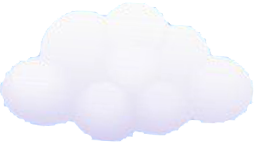
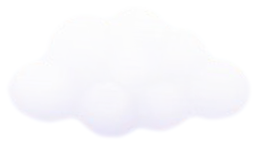
Refresh cloud art, layout tweaks, and mobile UI polish.
Update cloud PNGs and positions, black page backdrop, larger mobile faces, info panel offset, and overlay timing.

diff --git a/css/game.css b/css/game.css
@@ -9,7 +9,7 @@
 html,
 body {
   height: 100%;
-  background: radial-gradient(ellipse at 50% 30%, #2a2a2e 0%, #0a0a0c 55%, #000 100%);
+  background: #000;
   overflow: hidden;
   font-family: system-ui, -apple-system, Segoe UI, sans-serif;
   -webkit-tap-highlight-color: transparent;
@@ -329,7 +329,7 @@ body.force-landscape .prize-panel-wrap {
     margin: 0;
     overflow: hidden;
     overscroll-behavior: none;
-    background: #0a1020;
+    background: #000;
   }
 
   #app,
@@ -470,6 +470,7 @@ html:not(.is-touch) .iphone .stage {
 
 html.is-touch.game-landscape .stage {
   --info-panel-scale: calc(0.9555 * 0.85);
+  --info-panel-shift-x: 10px;
   --top-left-nudge-x: -10px;
   /* Rope Y: top of stage + lift info panel slightly */
   --info-rope-top: calc(
@@ -479,6 +480,7 @@ html.is-touch.game-landscape .stage {
 
 html:not(.is-touch) .iphone .stage {
   --info-panel-scale: 0.9555;
+  --info-panel-shift-x: 10px;
   --top-left-nudge-x: 0px;
   --info-rope-top: calc(-1 * max(var(--ui-top), 10px));
   --prize-panel-items-drop: -10px;
@@ -493,7 +495,7 @@ html:not(.is-touch) .iphone .top-left-controls {
 html.is-touch.game-landscape .info-panel-wrap,
 html:not(.is-touch) .iphone .info-panel-wrap {
   position: absolute;
-  left: var(--info-rope-x, 55px);
+  left: calc(var(--info-rope-x, 55px) + var(--info-panel-shift-x, 0px));
   top: var(--info-rope-top, -8px);
   margin-left: 0;
   margin-top: 0;
@@ -699,9 +701,9 @@ html.is-touch.game-landscape #field .slot[data-index="3"] .slot-inner {
   translate: 0 -8px;
 }
 
-/* Touch landscape: reward character faces −15% */
+/* Touch landscape: reward character face scale (all `.reward-* img.done`) */
 html.is-touch.game-landscape .stage {
-  --character-face-mul: 0.85;
+  --character-face-mul: 1;
   --character-reward-bottom: 10px;
   --petard-row-drop: 12px;
   --petard-lower-row-lift: 20px;
@@ -997,7 +999,7 @@ html.is-touch.game-landscape .info-swing img {
   --ui-top: 12px;
   --info-panel-scale: 0.85;
   --info-meter-gap: 6px;
-  --info-panel-shift-x: -10px;
+  --info-panel-shift-x: 0px;
   --info-panel-shift-y: -24px;
   --top-left-nudge-x: -16px;
   --close-nudge-x: 14px;

diff --git a/web/css/game.css b/web/css/game.css
@@ -9,7 +9,7 @@
 html,
 body {
   height: 100%;
-  background: radial-gradient(ellipse at 50% 30%, #2a2a2e 0%, #0a0a0c 55%, #000 100%);
+  background: #000;
   overflow: hidden;
   font-family: system-ui, -apple-system, Segoe UI, sans-serif;
   -webkit-tap-highlight-color: transparent;
@@ -329,7 +329,7 @@ body.force-landscape .prize-panel-wrap {
     margin: 0;
     overflow: hidden;
     overscroll-behavior: none;
-    background: #0a1020;
+    background: #000;
   }
 
   #app,
@@ -470,6 +470,7 @@ html:not(.is-touch) .iphone .stage {
 
 html.is-touch.game-landscape .stage {
   --info-panel-scale: calc(0.9555 * 0.85);
+  --info-panel-shift-x: 10px;
   --top-left-nudge-x: -10px;
   /* Rope Y: top of stage + lift info panel slightly */
   --info-rope-top: calc(
@@ -479,6 +480,7 @@ html.is-touch.game-landscape .stage {
 
 html:not(.is-touch) .iphone .stage {
   --info-panel-scale: 0.9555;
+  --info-panel-shift-x: 10px;
   --top-left-nudge-x: 0px;
   --info-rope-top: calc(-1 * max(var(--ui-top), 10px));
   --prize-panel-items-drop: -10px;
@@ -493,7 +495,7 @@ html:not(.is-touch) .iphone .top-left-controls {
 html.is-touch.game-landscape .info-panel-wrap,
 html:not(.is-touch) .iphone .info-panel-wrap {
   position: absolute;
-  left: var(--info-rope-x, 55px);
+  left: calc(var(--info-rope-x, 55px) + var(--info-panel-shift-x, 0px));
   top: var(--info-rope-top, -8px);
   margin-left: 0;
   margin-top: 0;
@@ -699,9 +701,9 @@ html.is-touch.game-landscape #field .slot[data-index="3"] .slot-inner {
   translate: 0 -8px;
 }
 
-/* Touch landscape: reward character faces −15% */
+/* Touch landscape: reward character face scale (all `.reward-* img.done`) */
 html.is-touch.game-landscape .stage {
-  --character-face-mul: 0.85;
+  --character-face-mul: 1;
   --character-reward-bottom: 10px;
   --petard-row-drop: 12px;
   --petard-lower-row-lift: 20px;
@@ -997,7 +999,7 @@ html.is-touch.game-landscape .info-swing img {
   --ui-top: 12px;
   --info-panel-scale: 0.85;
   --info-meter-gap: 6px;
-  --info-panel-shift-x: -10px;
+  --info-panel-shift-x: 0px;
   --info-panel-shift-y: -24px;
   --top-left-nudge-x: -16px;
   --close-nudge-x: 14px;

diff --git a/web/js/game.js b/web/js/game.js
@@ -233,17 +233,17 @@
 
   /** Clouds 1–11 */
   const PETARDS = [
-    "Assets/cloud1.png?v=cloudv5",
-    "Assets/cloud2.png?v=cloudv6",
-    "Assets/cloud3.png?v=cloudv5",
-    "Assets/cloud4.png?v=cloudv6",
-    "Assets/cloud5.png?v=cloudv5",
-    "Assets/cloud6.png?v=cloudv5",
-    "Assets/cloud7.png?v=cloudv6",
-    "Assets/cloud8.png?v=cloudv6",
-    "Assets/cloud9.png?v=cloudv5",
-    "Assets/cloud10.png?v=cloudv5",
-    "Assets/cloud11.png?v=cloudv1",
+    "Assets/cloud1.png?v=cloudv9",
+    "Assets/cloud2.png?v=cloudv9",
+    "Assets/cloud3.png?v=cloudv9",
+    "Assets/cloud4.png?v=cloudv9",
+    "Assets/cloud5.png?v=cloudv9",
+    "Assets/cloud6.png?v=cloudv9",
+    "Assets/cloud7.png?v=cloudv9",
+    "Assets/cloud8.png?v=cloudv9",
+    "Assets/cloud9.png?v=cloudv9",
+    "Assets/cloud10.png?v=cloudv9",
+    "Assets/cloud11.png?v=cloudv9",
   ];
 
   const PICK_COUNT = PETARDS.length;
@@ -255,10 +255,10 @@
     { x: 44, y: 26, rotate: 3, offsetY: 19 },
     { x: 54, y: 6, rotate: 2 },
     { x: 61, y: 34, rotate: -3 },
-    { x: 70, y: 2, rotate: 4 },
+    { x: 70, y: -4, rotate: 4 },
     { x: 26, y: 24, rotate: 3 },
     { x: 30, y: 50, rotate: -4 },
-    { x: 51, y: 54, rotate: 2 },
+    { x: 51, y: 59, rotate: 2 },
     { x: 67, y: 50, rotate: -2 },
     { x: 74, y: 22, rotate: 5 },
   /** Cloud 11 — above cloud 6 */
@@ -309,7 +309,7 @@
 
   const IDLE_WAIT_MS = 2000;
   const IDLE_ANIM_MS = 1000;
-  const GAME_COMPLETE_OVERLAY_DELAY_MS = 2000;
+  const GAME_COMPLETE_OVERLAY_DELAY_MS = 3000;
   const FINAL_PRIZE_DONE_HOLD_MS = 2000;
   const FINALE_PRIZE_POP_MS = 450;
   const FINALE_PRIZE_EXTRA_HOLD_MS = 1000;
@@ -723,7 +723,7 @@
     wrap.setAttribute("aria-hidden", "true");
   }
 
-  /** 3/3 almaz: Done on Final Prize rewards → 2s → fireworks → recompletion overlay. */
+  /** 3/3 almaz: Done on Final Prize rewards → 2s → fireworks 3s → recompletion overlay. */
   async function runFinalPrizeAlmazCompleteSequence() {
     if (finalPrizeCompleteSequenceStarted) return;
     if (panelProgressValue < PANEL_PROGRESS_DENOM) return;

diff --git a/js/game.js b/js/game.js
@@ -233,17 +233,17 @@
 
   /** Clouds 1–11 */
   const PETARDS = [
-    "Assets/cloud1.png?v=cloudv5",
-    "Assets/cloud2.png?v=cloudv6",
-    "Assets/cloud3.png?v=cloudv5",
-    "Assets/cloud4.png?v=cloudv6",
-    "Assets/cloud5.png?v=cloudv5",
-    "Assets/cloud6.png?v=cloudv5",
-    "Assets/cloud7.png?v=cloudv6",
-    "Assets/cloud8.png?v=cloudv6",
-    "Assets/cloud9.png?v=cloudv5",
-    "Assets/cloud10.png?v=cloudv5",
-    "Assets/cloud11.png?v=cloudv1",
+    "Assets/cloud1.png?v=cloudv9",
+    "Assets/cloud2.png?v=cloudv9",
+    "Assets/cloud3.png?v=cloudv9",
+    "Assets/cloud4.png?v=cloudv9",
+    "Assets/cloud5.png?v=cloudv9",
+    "Assets/cloud6.png?v=cloudv9",
+    "Assets/cloud7.png?v=cloudv9",
+    "Assets/cloud8.png?v=cloudv9",
+    "Assets/cloud9.png?v=cloudv9",
+    "Assets/cloud10.png?v=cloudv9",
+    "Assets/cloud11.png?v=cloudv9",
   ];
 
   const PICK_COUNT = PETARDS.length;
@@ -255,10 +255,10 @@
     { x: 44, y: 26, rotate: 3, offsetY: 19 },
     { x: 54, y: 6, rotate: 2 },
     { x: 61, y: 34, rotate: -3 },
-    { x: 70, y: 2, rotate: 4 },
+    { x: 70, y: -4, rotate: 4 },
     { x: 26, y: 24, rotate: 3 },
     { x: 30, y: 50, rotate: -4 },
-    { x: 51, y: 54, rotate: 2 },
+    { x: 51, y: 59, rotate: 2 },
     { x: 67, y: 50, rotate: -2 },
     { x: 74, y: 22, rotate: 5 },
   /** Cloud 11 — above cloud 6 */

diff --git a/index.html b/index.html
@@ -7,7 +7,7 @@
   <meta name="apple-mobile-web-app-capable" content="yes" />
   <meta name="apple-mobile-web-app-status-bar-style" content="black-translucent" />
   <title>Pick-it</title>
-  <link rel="stylesheet" href="css/game.css?v=finaldone1" />
+  <link rel="stylesheet" href="css/game.css?v=info-shift1" />
 </head>
 <body>
   <div id="rotateOverlay" class="rotate-overlay" aria-live="polite">
@@ -131,6 +131,6 @@
       </div>
     </div>
   </div>
-  <script src="js/game.js?v=uniqueprizes2"></script>
+  <script src="js/game.js?v=cloud5up1"></script>
 </body>
 </html>

diff --git a/web/index.html b/web/index.html
@@ -7,7 +7,7 @@
   <meta name="apple-mobile-web-app-capable" content="yes" />
   <meta name="apple-mobile-web-app-status-bar-style" content="black-translucent" />
   <title>Pick-it</title>
-  <link rel="stylesheet" href="css/game.css?v=finaldone1" />
+  <link rel="stylesheet" href="css/game.css?v=info-shift1" />
 </head>
 <body>
   <div id="rotateOverlay" class="rotate-overlay" aria-live="polite">
@@ -131,6 +131,6 @@
       </div>
     </div>
   </div>
-  <script src="js/game.js?v=uniqueprizes2"></script>
+  <script src="js/game.js?v=cloud5up1"></script>
 </body>
 </html>
